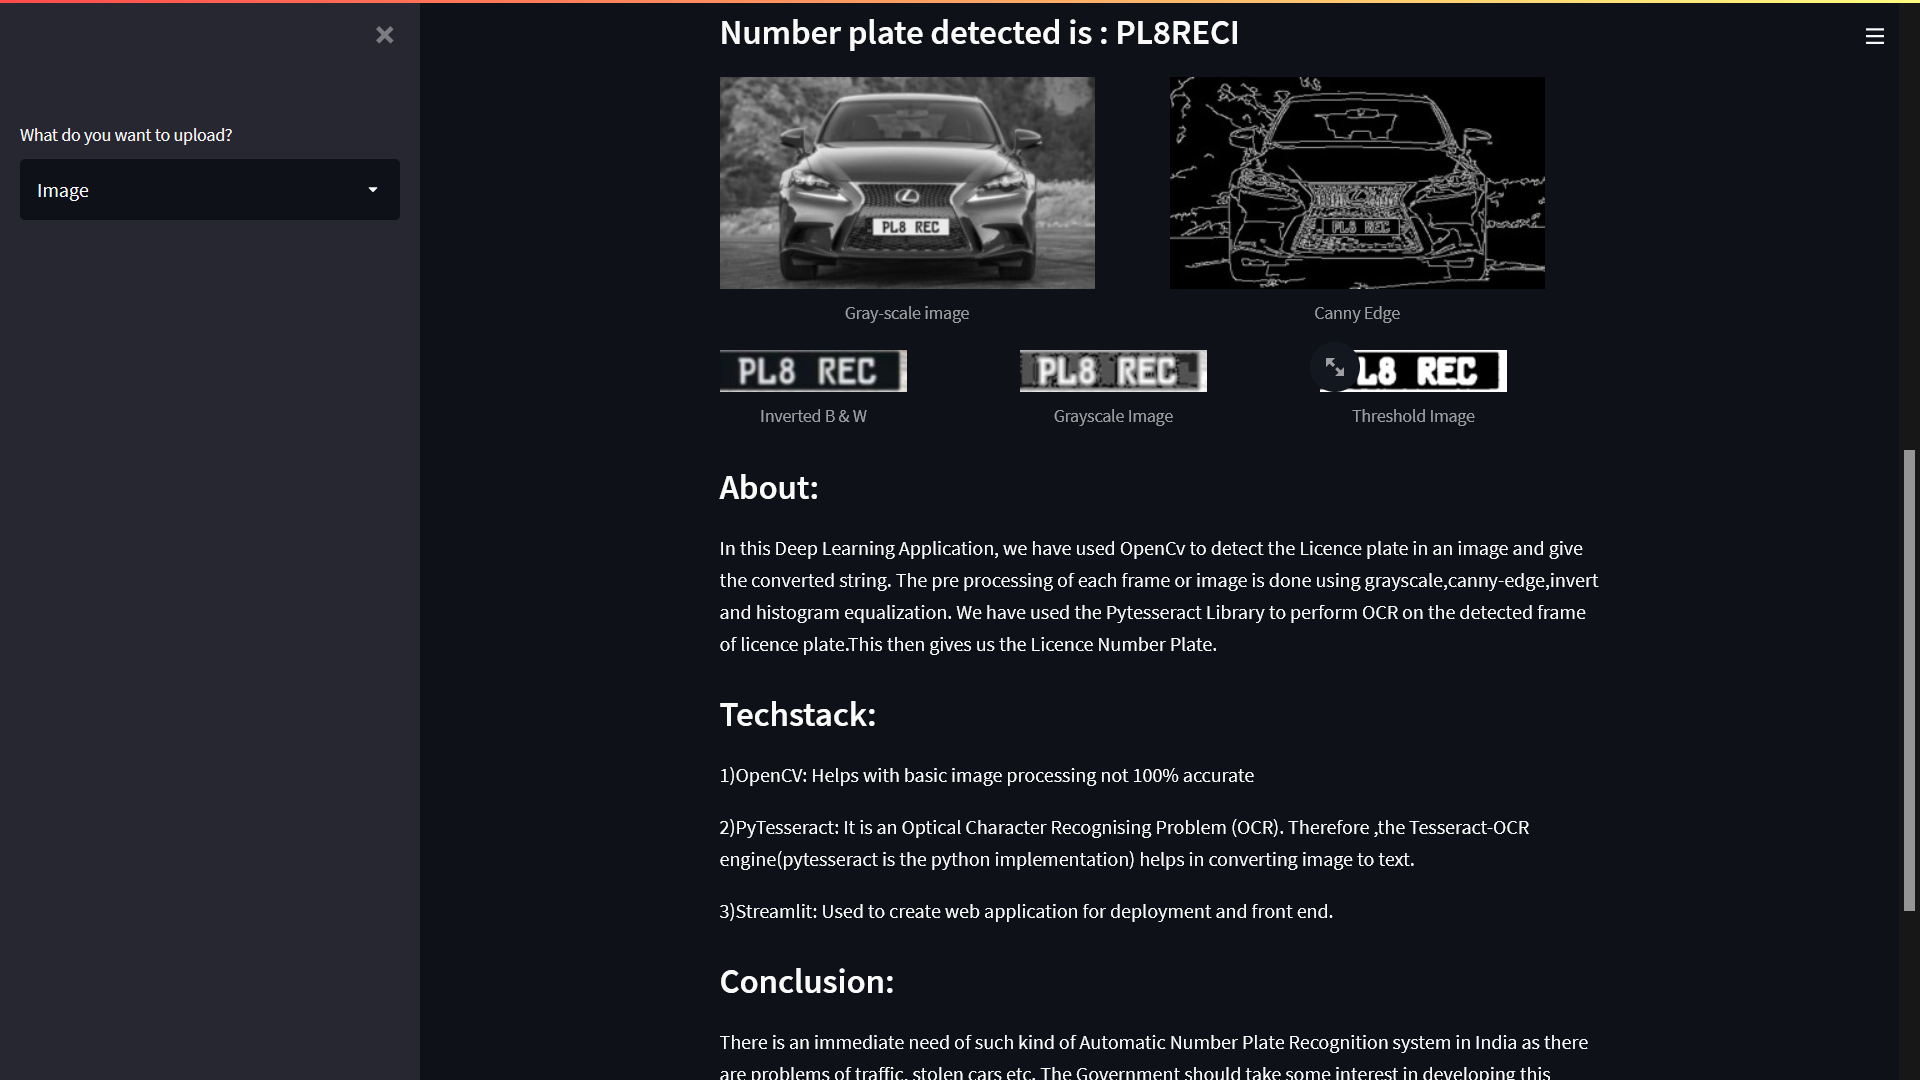
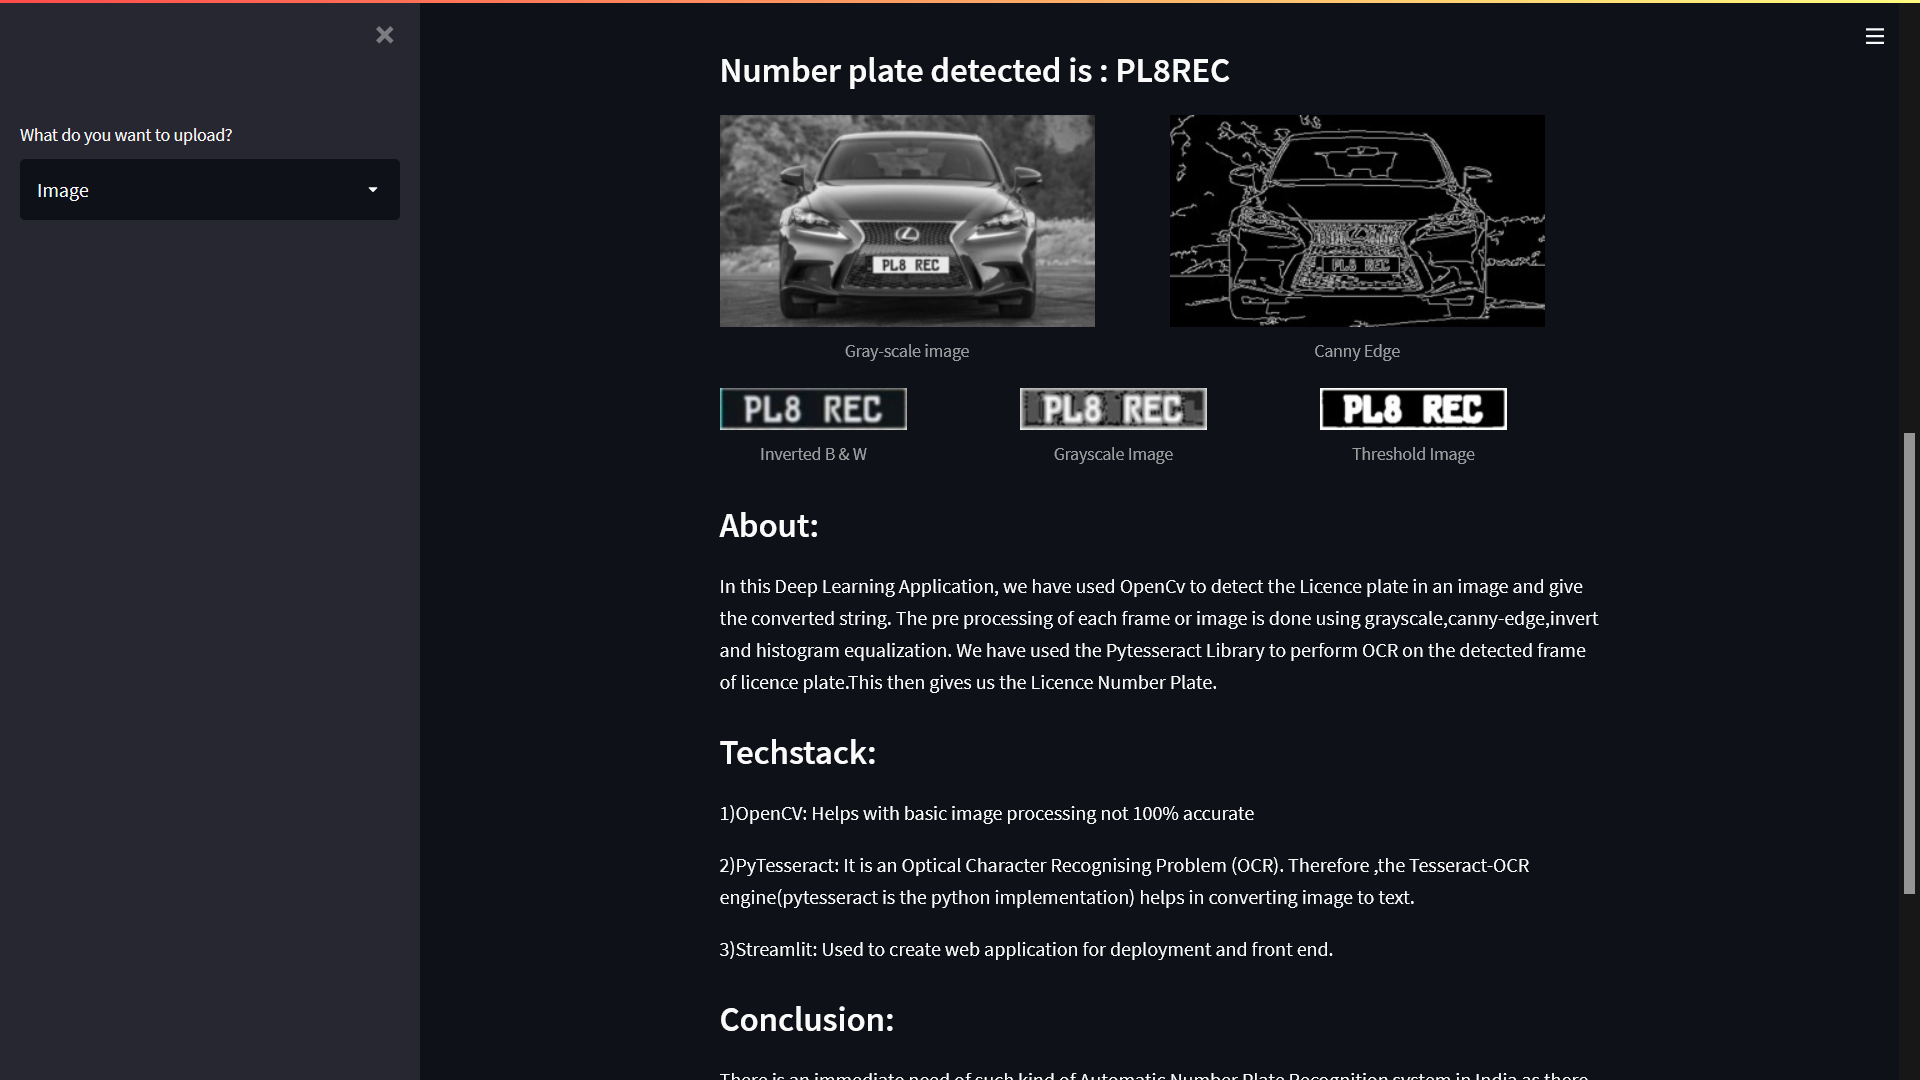
updated

Changed region(s): [[0.375, 0.0, 0.8438, 1.0]]

diff --git a/app.py b/app.py
@@ -8,6 +8,9 @@ import pytesseract
 import tempfile
 from zmq import NULL
 
+
+
+
 def header():
     st.markdown("<h1 style='text-align: center; color: white;'>Licence plate number detection</h1>", unsafe_allow_html=True)
     st.markdown("![gif](https://cdn.discordapp.com/attachments/945603582462398464/948294399689912330/car-on-the-road-4851957-404227-unscreen.gif)")
@@ -72,7 +75,7 @@ def video():
                     if len(approx) == 4: 
                         screenCnt = approx
                         x,y,w,h = cv2.boundingRect(c) 
-                        frame=cv2.rectangle(image,(x+3,y),(x+w+3,y+h),(255, 0, 0),2)
+                        frame=cv2.rectangle(image,(x,y),(x+w,y+h),(255, 0, 0),2)
                         new_img=image[y:y+h,x+3:x+w+3]
                         resized = cv2.resize(new_img,dsize=None,fx=4,fy=4)
                         invert = cv2.bitwise_not(resized)
@@ -133,7 +136,7 @@ def image():
             if len(approx) == 4: 
                 screenCnt = approx
                 x,y,w,h = cv2.boundingRect(c)
-                new_img=image[y:y+h,x+3:x+w+3]
+                new_img=image[y:y+h,x:x+w]
                 resized = cv2.resize(new_img,dsize=None,fx=4,fy=4)
                 invert = cv2.bitwise_not(resized)
                 gray_image1= cv2.cvtColor(invert,cv2.COLOR_BGR2GRAY)
